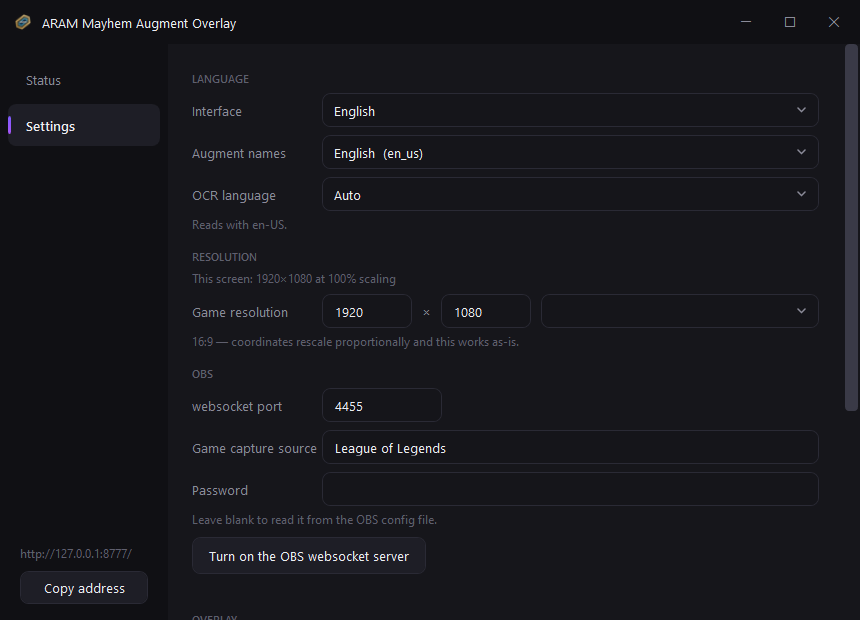
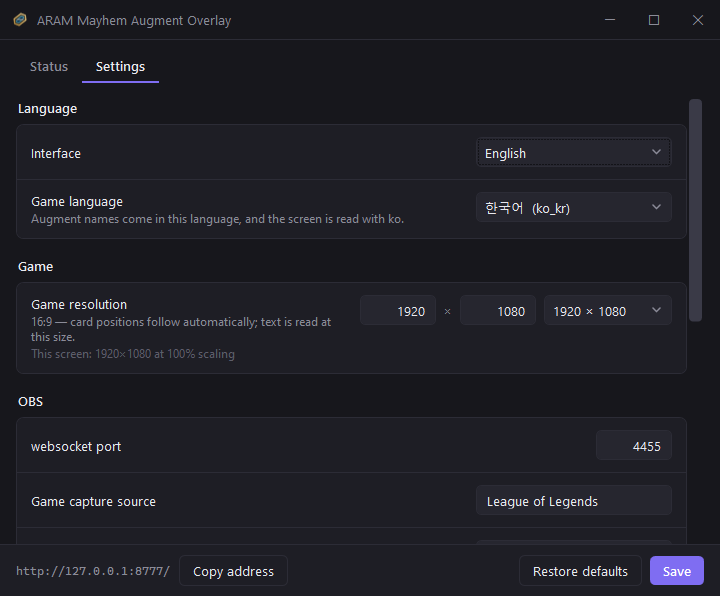
Screenshots of the new window, and two things a real game corrected
The README images are the new window in English, taken from a live Mayhem
game with real picks in the list.

The pick row's rarity line is two TextBlocks instead of two Runs, and the
empty state no longer promises levels 3, 7, 11 and 15: the game that produced
the screenshots handed out its picks at 3, 9 and 12, so the schedule is the
game's to state.

FINDINGS files the black-frame capture under its own heading -- an API path
that hands back an empty value where an error was expected, and so fails
while looking like success -- so the next one of those has something to be
compared against.

Claude-Session: https://claude.ai/code/session_013PVrT3YZ7xZCw3M8wcJjkx

diff --git a/src/AramOverlay.App/MainWindow.xaml b/src/AramOverlay.App/MainWindow.xaml
@@ -167,12 +167,12 @@
                                                            Foreground="{StaticResource Text}"
                                                            FontSize="13.5" FontWeight="SemiBold"
                                                            TextTrimming="CharacterEllipsis" />
-                                                <TextBlock Margin="0,2,0,0" FontSize="11.5">
-                                                    <Run Text="{Binding Rarity, Mode=OneWay}"
-                                                         Foreground="{Binding RarityBrush}" />
-                                                    <Run Text="{Binding Detail, Mode=OneWay}"
-                                                         Foreground="{StaticResource Faint}" />
-                                                </TextBlock>
+                                                <StackPanel Orientation="Horizontal" Margin="0,2,0,0">
+                                                    <TextBlock Text="{Binding Rarity}" FontSize="11.5"
+                                                               Foreground="{Binding RarityBrush}" />
+                                                    <TextBlock Text="{Binding Detail}" FontSize="11.5"
+                                                               Foreground="{StaticResource Faint}" />
+                                                </StackPanel>
                                             </StackPanel>
                                             <Border Grid.Column="3" Background="{StaticResource Row}"
                                                     CornerRadius="4" Padding="7,2" Margin="12,0,0,0"

diff --git a/src/AramOverlay.Core/Strings.cs b/src/AramOverlay.Core/Strings.cs
@@ -137,11 +137,13 @@ public static class Strings
             "獲得したオーグメント {0} 個", "已获得 {0} 个强化符文");
         Add("Status.Taken", "획득한 증강", "Augments taken", "獲得したオーグメント", "已获得的强化符文");
         Add("Status.NoPicks", "아직 없습니다", "Nothing yet", "まだありません", "暂无");
+        // No level list: one game handed out picks at 3, 9 and 12, so the
+        // schedule is the game's to state, not this window's.
         Add("Status.NoPicksDetail",
-            "증강을 고르면 여기에 쌓입니다 — 레벨 3·7·11·15에서.",
-            "Augments land here as you take them, at levels 3, 7, 11 and 15.",
-            "オーグメントを選ぶとここに並びます — レベル 3・7・11・15 で。",
-            "选取的强化符文会出现在这里 — 在 3、7、11、15 级时。");
+            "증강을 고르면 여기에 쌓입니다.",
+            "Augments land here as you take them.",
+            "オーグメントを選ぶとここに並びます。",
+            "选取的强化符文会出现在这里。");
 
         // ---- the status line: one title, one line under it -----------------
         Add("Status.Watching", "아수라장 게임 감지 중", "Watching an ARAM Mayhem game",

diff --git a/docs/FINDINGS.md b/docs/FINDINGS.md
@@ -106,7 +106,9 @@ priority 2 라 매칭 자체는 실행 파일로 됩니다. 앱은 시작 시와
 - **판정 루프**: JPG q80 @ 960×540 (69 ms, ~14 fps)
 - **OCR 프레임**: 호버/선택이 확정된 순간에만 풀해상도 1장
 
-### 검은 프레임 리스크 — 훅된 소스에서만 해당 없음
+### 검은 프레임 리스크 — 훅된 소스에서만 해당 없음 (조용히 실패하는 경로)
+분류를 따로 둡니다: "실패한 접근" 이 아니라 **오류 대신 빈 값이 와서 성공처럼 보이는 API 경로**입니다.
+같은 유형을 찾을 때 이 항목을 기준으로 삼으세요.
 게임 캡처 소스에서 `GetSourceScreenshot`은 **첫 호출부터 정상 프레임**을 반환했습니다
 (`videoActive=True`, 평균 밝기 43.1, 비검정 픽셀 99.7%). 재시도 불필요.
 
